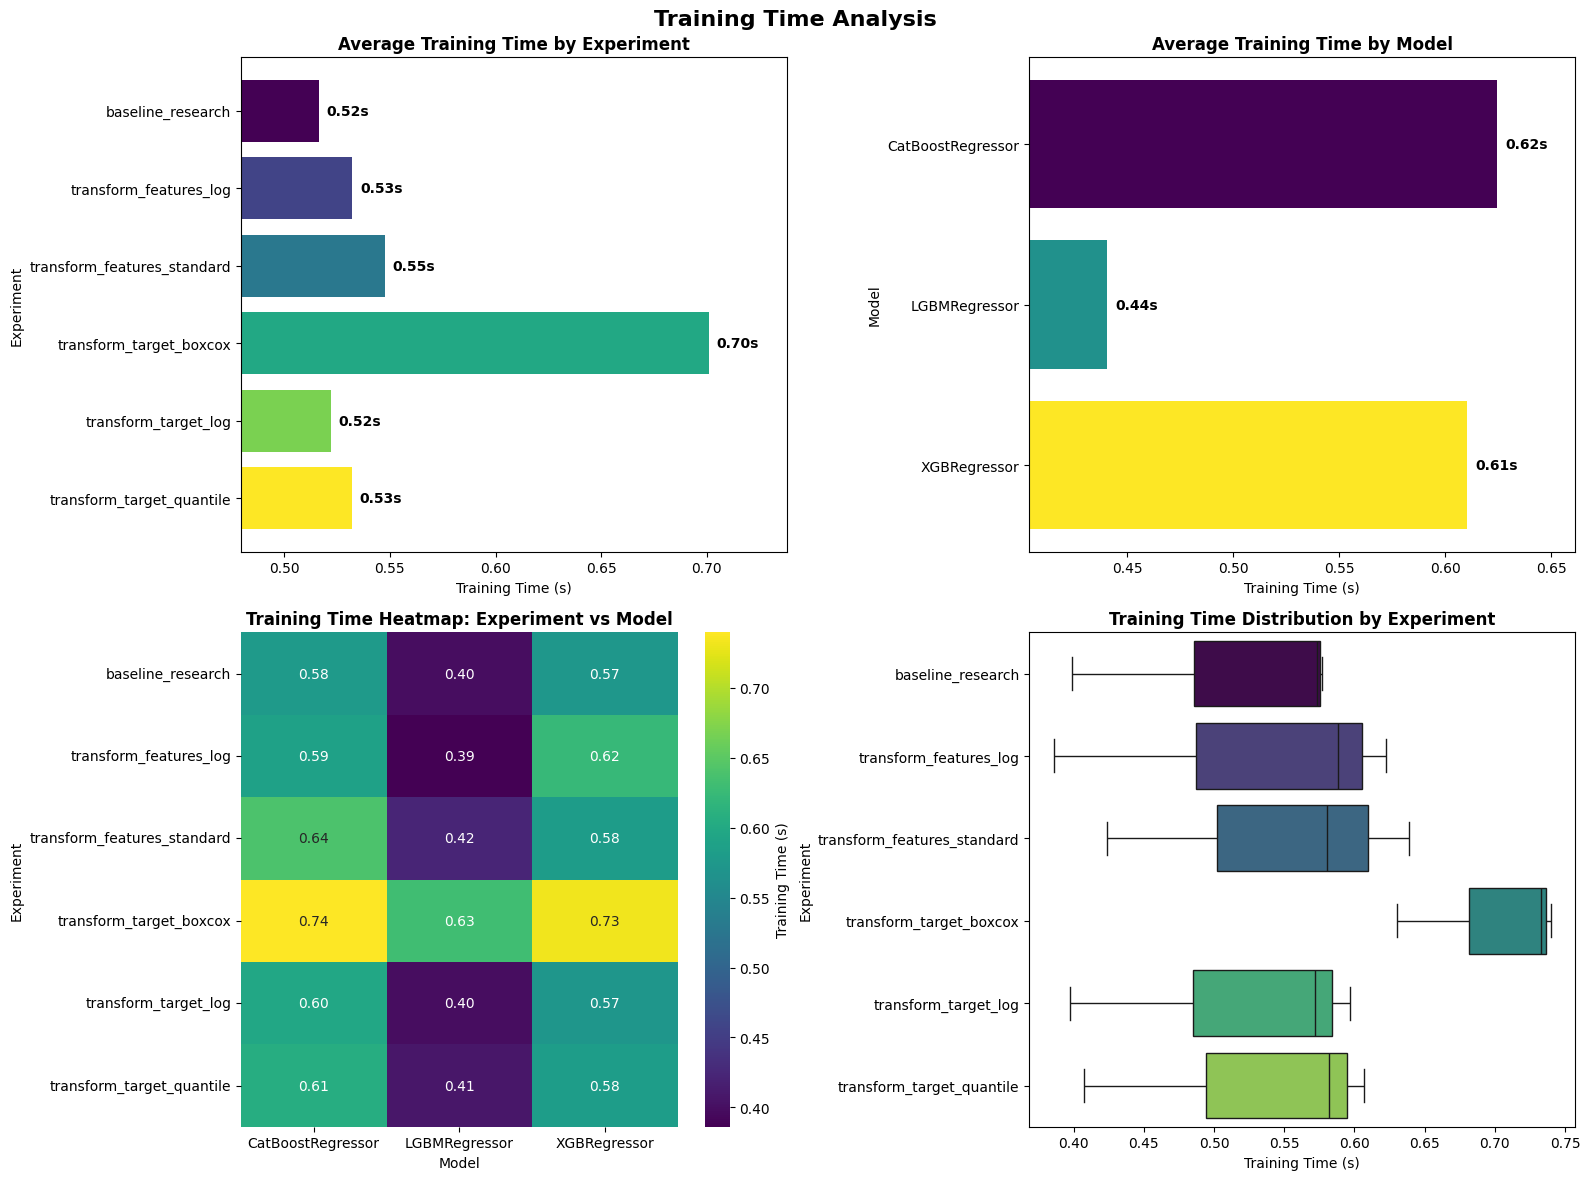
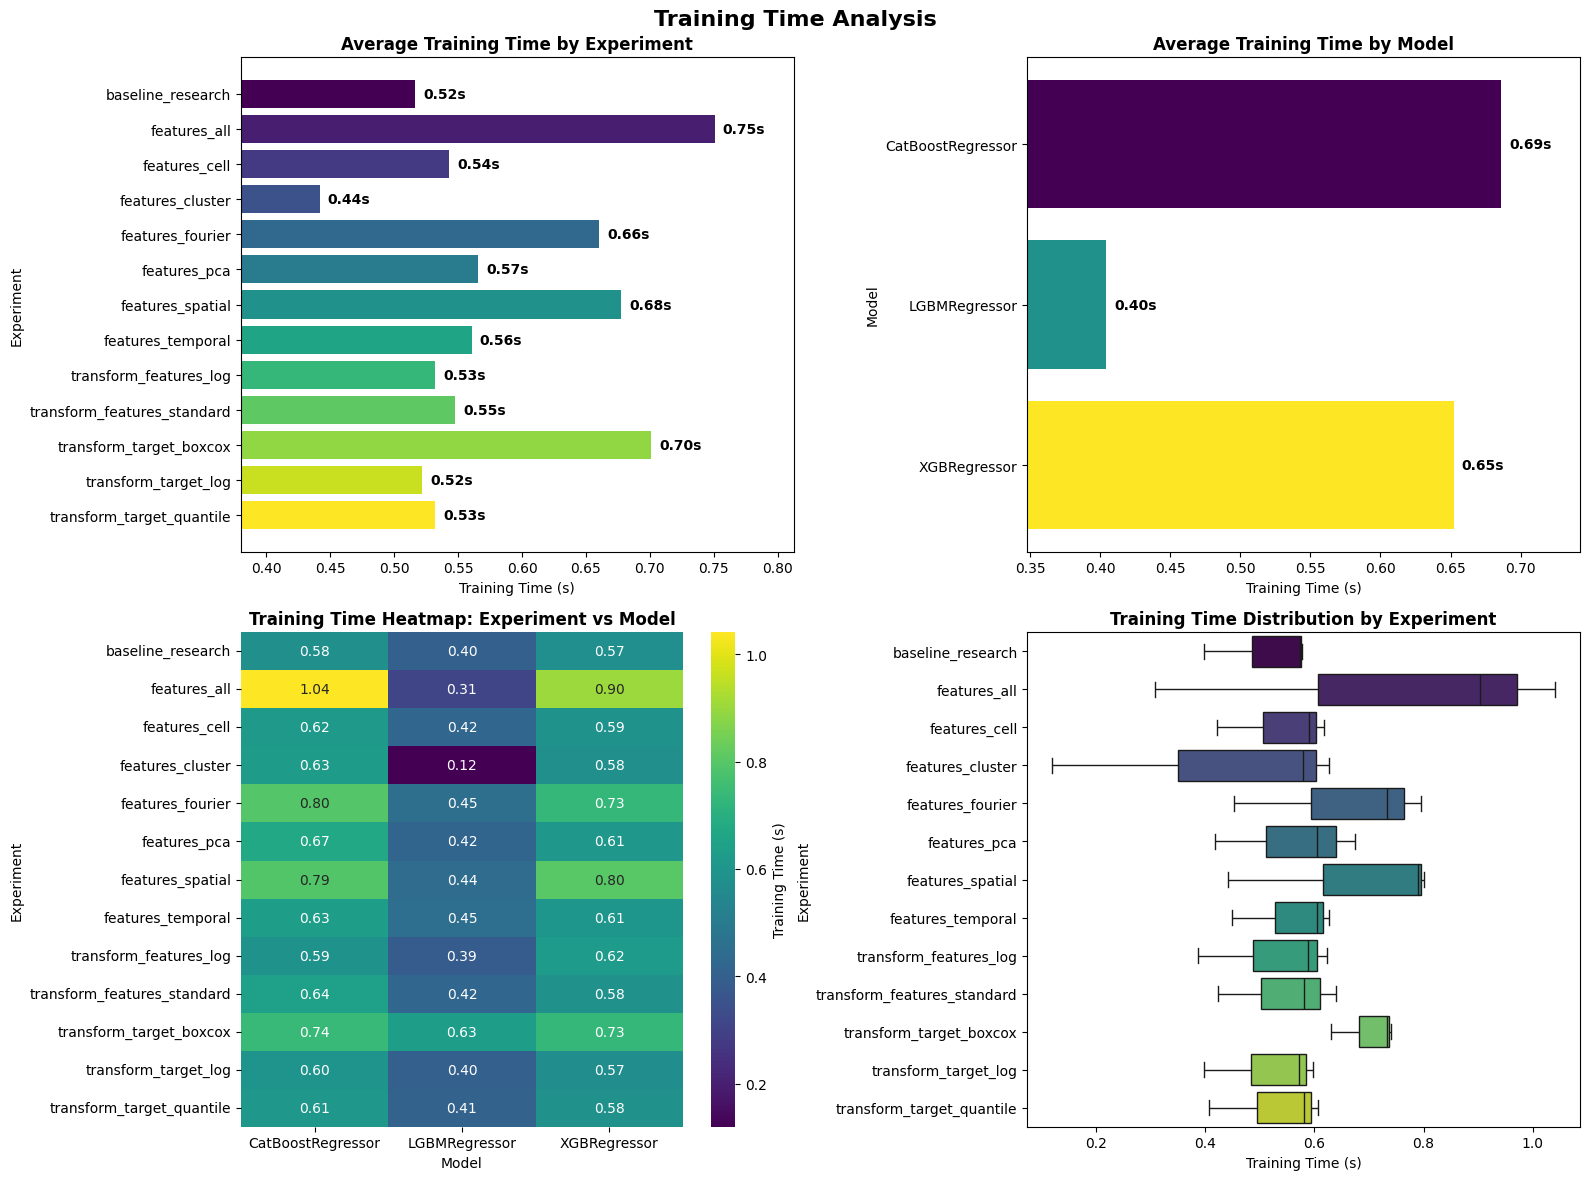
update analysis results and rename distance feature in spatial calculations

diff --git a/thesis/eta/features.py b/thesis/eta/features.py
@@ -281,11 +281,11 @@ def add_spatial_features(
     df_spatial["source_distance_from_city_center"] = np.hypot(
         df_spatial["source_x"] - city_center_x, df_spatial["source_y"] - city_center_y
     )
-    df_spatial["dest_distance_from_city_center"] = np.hypot(
+    df_spatial["destination_distance_from_city_center"] = np.hypot(
         df_spatial["destination_x"] - city_center_x, df_spatial["destination_y"] - city_center_y
     )
     df_spatial["trip_centrality_change"] = (
-        df_spatial["dest_distance_from_city_center"] - df_spatial["source_distance_from_city_center"]
+        df_spatial["destination_distance_from_city_center"] - df_spatial["source_distance_from_city_center"]
     )
     df_spatial["trip_centrality"] = np.hypot(
         df_spatial["x_center"] - city_center_x, df_spatial["y_center"] - city_center_y

diff --git a/thesis/eta/results.py b/thesis/eta/results.py
@@ -359,7 +359,7 @@ def load_research_results() -> pd.DataFrame:
     """
     df = load_all_results()
 
-    keywords = ["transform", "add", "research"]
+    keywords = ["transform", "features", "research"]
     pattern = "|".join(keywords)
 
     filtered_df = df[df["experiment"].str.contains(pattern, case=False, regex=True)]